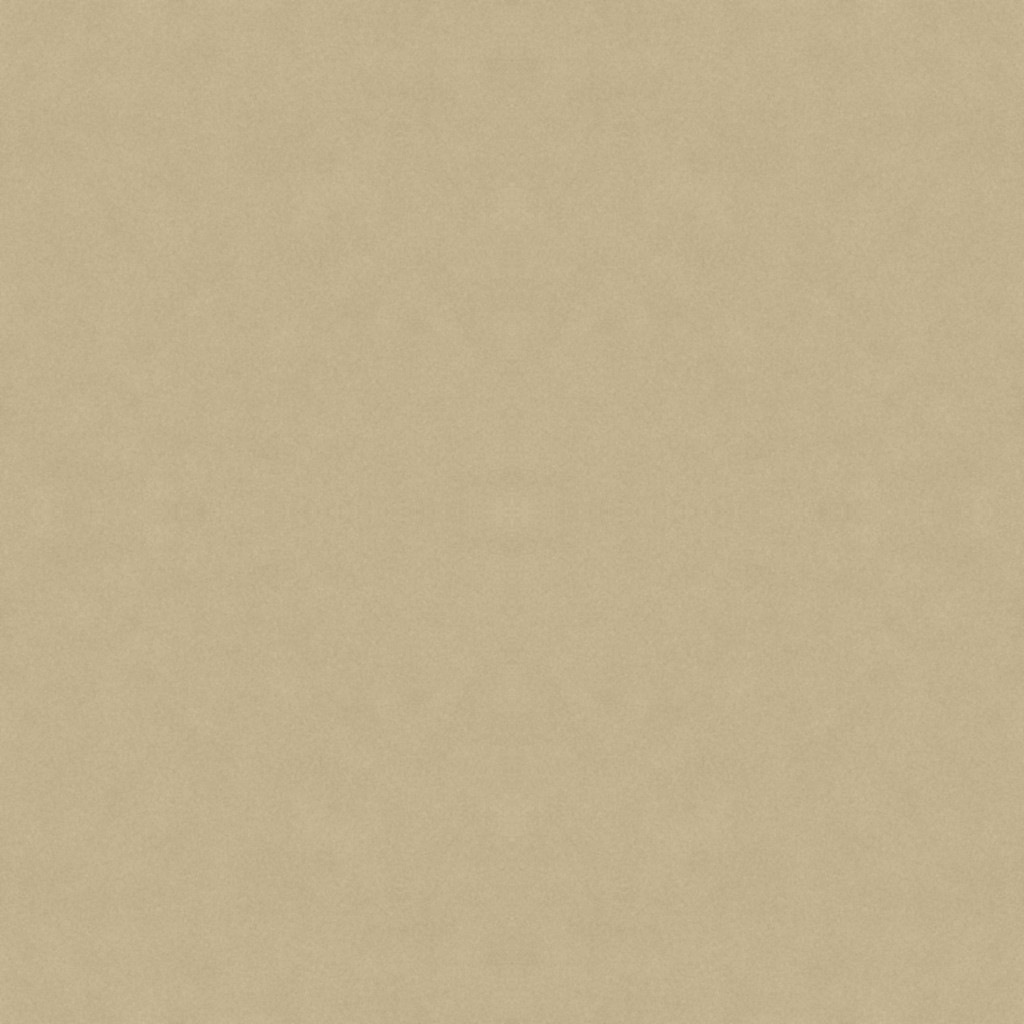
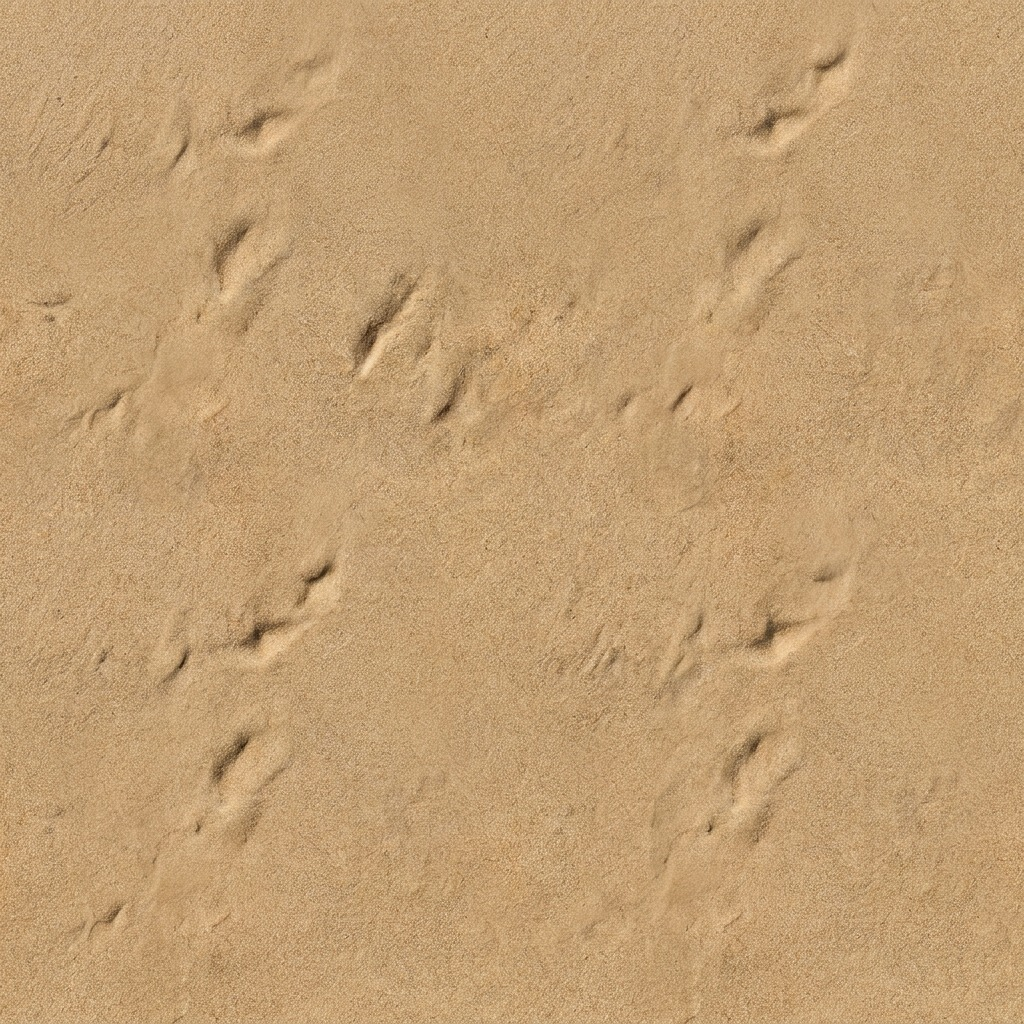
Use the dedicated Flow textures for the vertical 3D reel
Paper, resin water, sand, rocks, concrete, grass, asphalt and container
roof textures generated with Google Flow; the clock keeps its aged dial
paper with correct roman numerals redrawn on top.

Claude-Session: https://claude.ai/code/session_01DY8LyBHdfJ5V44MYDMK455

diff --git a/video/src/Reel/Diorama.tsx b/video/src/Reel/Diorama.tsx
@@ -11,27 +11,48 @@ import { P2, headingOf, pointAt, samplePath } from "../Port/scene/layout";
  * `stage` va da 0 a 6: parte intera = fasi completate, parte decimale = avanzamento.
  */
 
-/* Materiali presi dalle foto generate con Google Flow (public/tex). */
-const TEX = ["tex/water.jpg", "tex/sand.jpg", "tex/asphalt.jpg", "tex/rocks.jpg"];
-const useTex = () => {
-  const [water, sand, asphalt, rocks] = useLoader(
+/* Materiali generati con Google Flow (public/tex). */
+const TEX_NAMES = ["water", "sand", "asphalt", "rocks", "concrete", "grass", "container"];
+const variant = (src: THREE.Texture, rx: number, ry: number, rot = 0) => {
+  const t = src.clone();
+  t.repeat.set(rx, ry);
+  t.center.set(0.5, 0.5);
+  t.rotation = rot;
+  t.needsUpdate = true;
+  return t;
+};
+type TexSet = Record<
+  "water" | "seabed" | "sediment" | "fill" | "asphalt" | "rocks" | "concrete" | "tetra" | "grass" | "container",
+  THREE.Texture
+>;
+let texCache: { key: THREE.Texture; set: TexSet } | null = null;
+const useTex = (): TexSet => {
+  const loaded = useLoader(
     THREE.TextureLoader,
-    TEX.map((p) => staticFile(p)),
+    TEX_NAMES.map((n) => staticFile(`tex/${n}.jpg`)),
   );
-  useMemo(() => {
-    for (const t of [water, sand, asphalt, rocks]) {
-      t.colorSpace = THREE.SRGBColorSpace;
-      t.wrapS = THREE.MirroredRepeatWrapping;
-      t.wrapT = THREE.MirroredRepeatWrapping;
-      t.anisotropy = 4;
-      t.needsUpdate = true;
-    }
-    water.repeat.set(1, 1);
-    sand.repeat.set(2, 2);
-    asphalt.repeat.set(2, 1);
-    rocks.repeat.set(0.18, 0.12);
-  }, [water, sand, asphalt, rocks]);
-  return { water, sand, asphalt, rocks };
+  if (texCache && texCache.key === loaded[0]) return texCache.set;
+  for (const t of loaded) {
+    t.colorSpace = THREE.SRGBColorSpace;
+    t.wrapS = THREE.RepeatWrapping;
+    t.wrapT = THREE.RepeatWrapping;
+    t.anisotropy = 8;
+  }
+  const [water, sand, asphalt, rocks, concrete, grass, container] = loaded;
+  const set: TexSet = {
+    water: variant(water, 1, 0.72), // l'acqua non è ripetibile: una sola stesura
+    seabed: variant(sand, 3, 2.2),
+    sediment: variant(sand, 0.3, 0.3),
+    fill: variant(sand, 2.5, 0.4),
+    asphalt: variant(asphalt, 3, 1),
+    rocks: variant(rocks, 0.16, 0.16),
+    concrete: variant(concrete, 1, 1),
+    tetra: variant(concrete, 0.25, 0.25),
+    grass: variant(grass, 3.5, 1),
+    container: variant(container, 1, 1, Math.PI / 2),
+  };
+  texCache = { key: loaded[0], set };
+  return set;
 };
 
 const HALF = 60;
@@ -82,18 +103,18 @@ const Base: React.FC = () => {
       {/* fondale */}
       <mesh position={[0, SEABED / 2, (SHORE_Z + HALF) / 2]} castShadow receiveShadow>
         <boxGeometry args={[TILE_W, SEABED, HALF - SHORE_Z]} />
-        <meshStandardMaterial map={tex.sand} color="#ffffff" roughness={1} />
+        <meshStandardMaterial map={tex.seabed} color="#ffffff" roughness={1} />
       </mesh>
       {/* acqua (vetro colorato) */}
       <mesh position={[0, (SEABED + WATER) / 2, (SHORE_Z + HALF) / 2]} renderOrder={2} castShadow>
         <boxGeometry args={[TILE_W - 0.02, WATER - SEABED, HALF - SHORE_Z - 0.02]} />
         <meshStandardMaterial
           map={tex.water}
-          color="#6fdcf5"
-          emissive="#0b9fc4"
-          emissiveIntensity={0.28}
+          color="#3fb8d6"
+          emissive="#067a99"
+          emissiveIntensity={0.18}
           transparent
-          opacity={0.6}
+          opacity={0.8}
           roughness={0.15}
           metalness={0.1}
           depthWrite={false}
@@ -102,7 +123,7 @@ const Base: React.FC = () => {
       {/* terraferma */}
       <mesh position={[0, LAND_TOP / 2, (-HALF + SHORE_Z) / 2]} castShadow receiveShadow>
         <boxGeometry args={[TILE_W, LAND_TOP, SHORE_Z + HALF]} />
-        <meshStandardMaterial color="#93a86b" roughness={1} />
+        <meshStandardMaterial map={tex.grass} color="#ffffff" roughness={1} />
       </mesh>
       <mesh position={[0, LAND_TOP - 0.6, SHORE_Z - 1.2]} receiveShadow>
         <boxGeometry args={[TILE_W, 1.4, 2.6]} />
@@ -192,7 +213,7 @@ const Sediment: React.FC<{ s: number; t: number }> = ({ s, t }) => {
     <group>
       <instancedMesh ref={ref} args={[undefined, undefined, n]} receiveShadow>
         <boxGeometry args={[1, 1, 1]} />
-        <meshStandardMaterial map={tex.sand} roughness={1} />
+        <meshStandardMaterial map={tex.sediment} roughness={1} />
       </instancedMesh>
       {s < 1 && survey > 0 && survey < 1 ? (
         <>
@@ -331,13 +352,13 @@ const BreakwaterMini: React.FC<{ s: number; t: number }> = ({ s, t }) => {
   return (
     <group>
       <instancedMesh ref={coreRef} args={[coreGeo, undefined, data.pts.length]} castShadow receiveShadow>
-        <meshStandardMaterial map={tex.rocks} color="#f2efe8" roughness={1} />
+        <meshStandardMaterial map={tex.rocks} color="#ffffff" roughness={1} />
       </instancedMesh>
       <instancedMesh ref={crownRef} args={[crownGeo, undefined, data.pts.length]} castShadow receiveShadow>
-        <meshStandardMaterial color="#d9d4c8" roughness={0.9} />
+        <meshStandardMaterial map={tex.concrete} color="#ffffff" roughness={0.9} />
       </instancedMesh>
       <instancedMesh ref={armorRef} args={[tetGeo, undefined, data.tet.length]} castShadow receiveShadow>
-        <meshStandardMaterial color="#c4beb1" roughness={0.95} />
+        <meshStandardMaterial map={tex.tetra} color="#f4f2ec" roughness={0.95} />
       </instancedMesh>
       {working && fm > 0 && fm < data.aLen + 2 ? barge(MAIN, fm, "m") : null}
       {working && fs > 0 && fs < data.bLen ? barge(SECOND, fs, "s") : null}
@@ -355,6 +376,7 @@ const CX0 = -(CW * CN) / 2;
 const CZ = QUAY_Z - CD / 2;
 
 const Caissons: React.FC<{ s: number; t: number }> = ({ s, t }) => {
+  const tex = useTex();
   if (s < 2) return null;
   return (
     <group>
@@ -381,7 +403,7 @@ const Caissons: React.FC<{ s: number; t: number }> = ({ s, t }) => {
             <group position={[x, bottom + CH / 2 + bob, z]} scale={pop}>
               <mesh castShadow receiveShadow>
                 <boxGeometry args={[CW - 0.15, CH, CD]} />
-                <meshStandardMaterial color="#c9c4b8" roughness={0.85} />
+                <meshStandardMaterial map={tex.concrete} color="#f2f0ea" roughness={0.85} />
               </mesh>
               {[-2.6, 0, 2.6].map((cx) => (
                 <mesh key={cx} position={[cx, CH / 2 + 0.01, 0]} rotation={[-Math.PI / 2, 0, 0]}>
@@ -425,7 +447,7 @@ const Yard: React.FC<{ s: number }> = ({ s }) => {
     <group>
       <mesh position={[0, (SEABED + fillTop) / 2, (SHORE_Z + YARD_Z1) / 2]} receiveShadow castShadow>
         <boxGeometry args={[YX1 - YX0 - 0.1, fillTop - SEABED, YARD_Z1 - SHORE_Z]} />
-        <meshStandardMaterial map={tex.sand} color="#f0e2c4" roughness={1} />
+        <meshStandardMaterial map={tex.fill} color="#ffffff" roughness={1} />
       </mesh>
       {[YX0 - 1.5, YX1 + 1.5].map((x) => (
         <mesh key={x} position={[x, (SEABED + fillTop) / 2, (SHORE_Z + YARD_Z1) / 2]} castShadow>
@@ -436,7 +458,7 @@ const Yard: React.FC<{ s: number }> = ({ s }) => {
       {cap > 0 ? (
         <mesh position={[YX0 + ((YX1 - YX0) * cap) / 2, YT + 0.35, CZ]} castShadow receiveShadow>
           <boxGeometry args={[(YX1 - YX0) * cap, 0.7, CD + 0.3]} />
-          <meshStandardMaterial color="#e0dcd2" roughness={0.8} />
+          <meshStandardMaterial map={tex.concrete} color="#ffffff" roughness={0.8} />
         </mesh>
       ) : null}
       {pave > 0 ? (
@@ -445,7 +467,7 @@ const Yard: React.FC<{ s: number }> = ({ s }) => {
           receiveShadow
         >
           <boxGeometry args={[(YX1 - YX0 + 8) * pave, 0.3, YARD_Z1 - YARD_Z0]} />
-          <meshStandardMaterial map={tex.asphalt} color="#e8e8e8" roughness={0.9} />
+          <meshStandardMaterial map={tex.asphalt} color="#ffffff" roughness={0.9} />
         </mesh>
       ) : null}
       {/* binari gru e segnaletica */}
@@ -644,6 +666,7 @@ const Lighthouse: React.FC<{ p: number; glow: number }> = ({ p, glow }) => {
 /* ------------------------------ 6. operatività ---------------------------- */
 
 const YardBoxes: React.FC<{ pre: number; ops: number }> = ({ pre, ops }) => {
+  const tex = useTex();
   const ref = useRef<THREE.InstancedMesh>(null);
   const slots = useMemo(() => {
     const out: { x: number; y: number; z: number; c: string; o: number; pre: boolean }[] = [];
@@ -684,12 +707,13 @@ const YardBoxes: React.FC<{ pre: number; ops: number }> = ({ pre, ops }) => {
   return (
     <instancedMesh ref={ref} args={[undefined, undefined, slots.length]} castShadow receiveShadow>
       <boxGeometry args={[1, 1, 1]} />
-      <meshStandardMaterial roughness={0.7} />
+      <meshStandardMaterial map={tex.container} roughness={0.6} metalness={0.2} />
     </instancedMesh>
   );
 };
 
 const ShipMini: React.FC<{ arrive: number; unload: number; t: number }> = ({ arrive, unload, t }) => {
+  const tex = useTex();
   const hull = useHullGeometry(40, 7, 5);
   const ref = useRef<THREE.InstancedMesh>(null);
   const boxes = useMemo(() => {
@@ -755,7 +779,7 @@ const ShipMini: React.FC<{ arrive: number; unload: number; t: number }> = ({ arr
       </mesh>
       <instancedMesh ref={ref} args={[undefined, undefined, boxes.length]} castShadow>
         <boxGeometry args={[1, 1, 1]} />
-        <meshStandardMaterial roughness={0.7} />
+        <meshStandardMaterial map={tex.container} roughness={0.6} metalness={0.2} />
       </instancedMesh>
     </group>
   );

diff --git a/video/src/Reel/ReelScene.tsx b/video/src/Reel/ReelScene.tsx
@@ -1,7 +1,7 @@
 import React, { useLayoutEffect, useRef } from "react";
 import * as THREE from "three";
-import { useThree } from "@react-three/fiber";
-import { spring, useCurrentFrame } from "remotion";
+import { useLoader, useThree } from "@react-three/fiber";
+import { spring, staticFile, useCurrentFrame } from "remotion";
 import { Diorama } from "./Diorama";
 import {
   CLOCK,
@@ -68,17 +68,18 @@ const Sun: React.FC = () => {
 
 /** Quadrante color crema con numeri romani, come l'orologio della foto di Flow. */
 let clockFace: THREE.CanvasTexture | null = null;
-const getClockFace = () => {
+const getClockFace = (paper: HTMLImageElement) => {
   if (clockFace) return clockFace;
   const S = 1024;
   const c = document.createElement("canvas");
   c.width = S;
   c.height = S;
   const g = c.getContext("2d")!;
-  const grd = g.createRadialGradient(S / 2, S / 2, S * 0.05, S / 2, S / 2, S / 2);
-  grd.addColorStop(0, "#f6efd9");
-  grd.addColorStop(0.85, "#efe3c3");
-  grd.addColorStop(1, "#d9c79f");
+  // carta invecchiata dal quadrante generato con Google Flow
+  g.drawImage(paper, 0, 0, S, S);
+  const grd = g.createRadialGradient(S / 2, S / 2, S * 0.3, S / 2, S / 2, S / 2);
+  grd.addColorStop(0, "rgba(120,90,40,0)");
+  grd.addColorStop(1, "rgba(120,90,40,0.22)");
   g.fillStyle = grd;
   g.fillRect(0, 0, S, S);
   g.translate(S / 2, S / 2);
@@ -149,6 +150,7 @@ const Tiles: React.FC = () => {
 /** Orologio da parete appoggiato sulla carta (come nel riferimento). */
 const Clock: React.FC = () => {
   const frame = useCurrentFrame();
+  const dial = useLoader(THREE.TextureLoader, staticFile("tex/dialpaper.jpg"));
   const appear = OUTRO_START + 4;
   if (frame < appear) return null;
   const cam = cameraAt(frame);
@@ -167,7 +169,7 @@ const Clock: React.FC = () => {
       </mesh>
       <mesh position={[0, 5.42, 0]} rotation={[-Math.PI / 2, 0, 0]} receiveShadow>
         <circleGeometry args={[R - 3, 96]} />
-        <meshStandardMaterial map={getClockFace()} roughness={0.85} />
+        <meshStandardMaterial map={getClockFace(dial.image as HTMLImageElement)} roughness={0.85} />
       </mesh>
       <mesh position={[0, 5.3, 0]}>
         <torusGeometry args={[R - 3, 0.5, 8, 64]} />

diff --git a/video/src/Reel/ReelOverlay.tsx b/video/src/Reel/ReelOverlay.tsx
@@ -265,7 +265,7 @@ const Outro: React.FC<{ f: number }> = ({ f }) => {
 
 
 // carta millimetrata ricavata dalla foto "carta vuota" di Google Flow (resa ripetibile)
-const PAPER_TILE = 400; // unità mondo coperte da una ripetizione (≈ 40 quadretti da 10)
+const PAPER_TILE = 260; // unità mondo coperte da una ripetizione (≈ 40 quadretti da 10)
 
 export const Paper: React.FC = () => {
   const f = useCurrentFrame();
